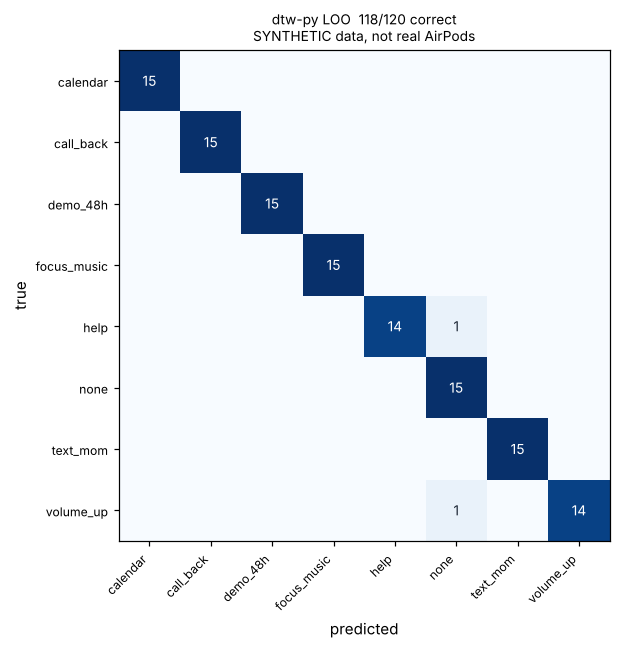
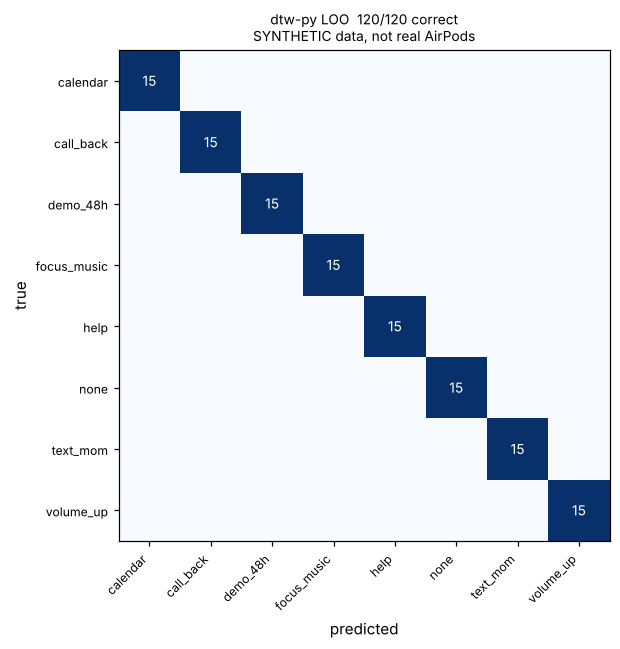
Track G: dtw-py LOO at the JS defaults, synthetic dtw-py rerun, RESULTS.md (real data first; generated with p2-f-dtw-real d27c07f's ml/results/dtw-knn in place)
Claude-Session: https://claude.ai/code/session_01BNSL6qk1bv6gor7EbPhNKm

Changed region(s): [[0.429, 0.0, 0.7355, 0.0616], [0.5823, 0.4314, 0.7048, 0.5547], [0.8581, 0.7396, 0.9806, 0.832]]

diff --git a/ml/silent/report.py b/ml/silent/report.py
@@ -381,7 +381,7 @@ def _luck_table(rows: Sequence[dict[str, Any]], out_path: Path) -> list[str]:
         )
         img = m["_path"].parent / "luck_loso.png"
         if img.exists():
-            imgs += [f"![{m['model']} luck test]({os.path.relpath(img, out_path.parent).replace(os.sep, '/')})", ""]
+            imgs += [f"![{_model(m)} luck test]({os.path.relpath(img, out_path.parent).replace(os.sep, '/')})", ""]
     return lines + [""] + imgs
 
 
@@ -427,7 +427,7 @@ def _real_section(group: Sequence[dict[str, Any]], out_path: Path, ids: Sequence
     lucky = [m for m in by["loso"] if "permutation" in m["params"]]
     if lucky:
         lines += ["#### Luck test", "", *_luck_table(lucky, out_path)]
-        skipped = [m["model"] for m in by["loso"] if "permutation" not in m["params"] and m["model"] != "dtw-knn"]  # dtw-knn = dtw-py
+        skipped = [_model(m) for m in by["loso"] if "permutation" not in m["params"] and m["model"] != "dtw-knn"]  # dtw-knn = dtw-py
         if skipped:
             lines += [f"Not run for {', '.join(skipped)} (each shuffle means retraining every fold; the cheap exact shortcut exists only for",
                       "dtw-py and minirocket).", ""]

diff --git a/ml/tests/test_dtw.py b/ml/tests/test_dtw.py
@@ -146,11 +146,9 @@ def test_matches_js_dtw_knn_clip_by_clip(synthetic):
     import json
     from pathlib import Path
 
-    from silent.bench import run_fold
+    from silent.bench import default_opts, run_fold
     from silent.cv import splits
     from silent.preprocess import preprocess_clip
-
-    from silent.bench import default_opts
 
     snap = json.loads((Path(__file__).parent / "data" / "js_dtw_knn_loso.json").read_text())
     assert snap["opts"] == {}  # JS defaults = dtw-py defaults
@@ -174,11 +172,9 @@ def test_matches_js_dtw_knn_on_real_data_with_bud_mirroring(real_smoke):
     import json
     from pathlib import Path
 
-    from silent.bench import run_fold
+    from silent.bench import default_opts, run_fold
     from silent.cv import splits
     from silent.preprocess import preprocess_clip
-
-    from silent.bench import default_opts
 
     js = json.loads((Path(__file__).parent / "data" / "js_dtw_knn_real_smoke_loso.json").read_text())
     assert js["opts"] == {}  # JS defaults = dtw-py defaults (L 96, band 0.05, k 3, clip norm, threshold 0.85, budNorm mirror)

diff --git a/ml/RESULTS.md b/ml/RESULTS.md
@@ -31,22 +31,31 @@ he mouthed "stay still"); the raw files are never edited.
 
 8 classes (`calendar`, `call_back`, `demo_48h`, `focus_music`, `help`, `none`, `text_mom`, `volume_up`), so chance is about 12.5%.
 
-Settings (LOSO runs): **dtw-py**: L 64, 6 channels, high pass 1.0 Hz, global norm, budNorm mirror; band 0.1, k 1; **minirocket**: L 64, 6 channels, high pass 1.0 Hz, global norm, budNorm mirror; 10000 kernels, seed 0; **cnn**: L 64, 6 channels, high pass 1.0 Hz, global norm, budNorm mirror; max 300 epochs, seed 0.
+Settings (LOSO runs): **dtw-knn (JS)**: L 96, 6 channels, high pass 1 Hz, clip norm, budNorm mirror; band 0.05, k 3; **dtw-py**: L 96, 6 channels, high pass 1.0 Hz, clip norm, budNorm mirror; band 0.05, k 3; **dtw-py (phase1-settings)**: L 64, 6 channels, high pass 1.0 Hz, global norm, budNorm mirror; band 0.1, k 1; **minirocket**: L 64, 6 channels, high pass 1.0 Hz, global norm, budNorm mirror; 10000 kernels, seed 0; **minirocket (L96-clip)**: L 96, 6 channels, high pass 1.0 Hz, clip norm, budNorm mirror; 10000 kernels, seed 0; **cnn**: L 64, 6 channels, high pass 1.0 Hz, global norm, budNorm mirror; max 300 epochs, seed 0; **cnn (L96-clip)**: L 96, 6 channels, high pass 1.0 Hz, clip norm, budNorm mirror; max 300 epochs, seed 0.
 
 #### Leave one session out (the headline)
 
 Train on the other sessions, test on a whole new one: the closest thing to real use. Each test column is one fold.
 
-| Model | Accuracy | Macro F1 | test s1 (right bud) | test s2 (left bud) | test s3 (left bud) | Seeds 0 to 4: mean (range) | None false accept | Infer ms/clip |
-|---|---:|---:|---:|---:|---:|---:|---:|---:|
-| dtw-py | 81.9% (280/342) | 0.820 | 64.8% (68/105) | 94.0% (110/117) | 85.0% (102/120) | no randomness | 3.7% (1/27) | 51.4 |
-| minirocket | 76.3% (261/342) | 0.776 | 49.5% (52/105) | 92.3% (108/117) | 84.2% (101/120) | 77.8% (76.3% to 79.8%) | 0.0% (0/27) | 3.9 |
-| cnn | 76.6% (262/342) | 0.780 | 51.4% (54/105) | 91.5% (107/117) | 84.2% (101/120) | 77.3% (74.9% to 81.3%) | 3.7% (1/27) | 2.1 |
+| Model | Accuracy | Macro F1 | test s1 (right bud) | test s2 (left bud) | test s3 (left bud) | Seeds 0 to 4: mean (range) | Settings | None false accept | Infer ms/clip |
+|---|---:|---:|---:|---:|---:|---:|---|---:|---:|
+| dtw-knn (JS) | 94.2% (322/342) | 0.939 | ? | ? | ? | no randomness | picked on these folds (sweep) | 0.0% (0/27) | 12.9 |
+| dtw-py | 94.2% (322/342) | 0.939 | 83.8% (88/105) | 97.4% (114/117) | 100.0% (120/120) | no randomness | picked on these folds (sweep) | 0.0% (0/27) | 93.9 |
+| dtw-py (phase1-settings) | 81.9% (280/342) | 0.820 | 64.8% (68/105) | 94.0% (110/117) | 85.0% (102/120) | no randomness | fixed before this data | 3.7% (1/27) | 52.3 |
+| minirocket | 76.3% (261/342) | 0.776 | 49.5% (52/105) | 92.3% (108/117) | 84.2% (101/120) | 77.8% (76.3% to 79.8%) | fixed before this data | 0.0% (0/27) | 3.9 |
+| minirocket (L96-clip) | 84.8% (290/342) | 0.854 | 64.8% (68/105) | 95.7% (112/117) | 91.7% (110/120) | 85.4% (83.9% to 88.3%) | preprocessing from the DTW sweep | 3.7% (1/27) | 6.0 |
+| cnn | 76.6% (262/342) | 0.780 | 51.4% (54/105) | 91.5% (107/117) | 84.2% (101/120) | 77.3% (74.9% to 81.3%) | fixed before this data | 3.7% (1/27) | 2.1 |
+| cnn (L96-clip) | 79.2% (271/342) | 0.798 | 54.3% (57/105) | 92.3% (108/117) | 88.3% (106/120) | 80.8% (78.9% to 83.6%) | preprocessing from the DTW sweep | 3.7% (1/27) | 2.4 |
+
+**Settings picked on these folds:** the DTW defaults (L 96, band 0.05, k 3, clip norm, threshold 0.85) were chosen
+by a LOSO sweep of 768 configurations on these same 3 sessions (Track F, `web/src/ml/preprocess.ts`), so those
+rows are a little optimistic (the best of many tries). Rows marked *fixed before this data* had no such tuning.
+The honest check is a session that played no part in choosing anything (the s3 hold out replay of the public model).
 
 Accuracy is the first seed (0), fixed before the run. MiniRocket and the CNN are random (kernels, weights), so the
 seed column shows the same LOSO with other seeds: differences of a few points between models are within that spread.
 
-- Highest LOSO on `ss-dataset-s1-20261031-1621.json`, `ss-dataset-s2-20261031-1637.json`, `ss-dataset-s3-20261031-1654.json`: **dtw-py**, 280/342 correct (81.9%).
+- Highest LOSO on `ss-dataset-s1-20261031-1621.json`, `ss-dataset-s2-20261031-1637.json`, `ss-dataset-s3-20261031-1654.json`: **dtw-knn (JS)** and **dtw-py** (tie), 322/342 correct (94.2%).
 
 #### Cross bud
 
@@ -56,9 +65,12 @@ motion mirrored into the left bud frame; the default everywhere, so this is also
 
 | Model | Raw | Mirrored | Gain (points) |
 |---|---:|---:|---:|
-| dtw-py | 31.4% (33/105) | 64.8% (68/105) | +33.3 |
+| dtw-py | 26.7% (28/105) | 83.8% (88/105) | +57.1 |
+| dtw-py (phase1-settings) | 31.4% (33/105) | 64.8% (68/105) | +33.3 |
 | minirocket | 33.3% (35/105) | 49.5% (52/105) | +16.2 |
+| minirocket (L96-clip) | 30.5% (32/105) | 64.8% (68/105) | +34.3 |
 | cnn | 21.0% (22/105) | 51.4% (54/105) | +30.5 |
+| cnn (L96-clip) | 9.5% (10/105) | 54.3% (57/105) | +44.8 |
 
 #### Luck test
 
@@ -68,14 +80,17 @@ p value = (1 + shuffles that reached the real accuracy) / (shuffles + 1). Idea f
 
 | Model | Real LOSO | Shuffled labels: mean (sd) | Best shuffle | Shuffles at or above real | p value |
 |---|---:|---:|---:|---:|---:|
-| dtw-py | 81.9% (280/342) | 12.7% (3.2) | 22.8% | 0 of 500 | 0.002 |
+| dtw-py | 94.2% (322/342) | 12.5% (2.9) | 22.8% | 0 of 500 | 0.002 |
+| dtw-py (phase1-settings) | 81.9% (280/342) | 12.7% (3.2) | 22.8% | 0 of 500 | 0.002 |
 | minirocket | 76.3% (261/342) | 12.7% (2.3) | 19.9% | 0 of 500 | 0.002 |
 
 ![dtw-py luck test](results/dtw-py/luck_loso.png)
 
+![dtw-py (phase1-settings) luck test](results/dtw-py--phase1-settings/luck_loso.png)
+
 ![minirocket luck test](results/minirocket/luck_loso.png)
 
-Not run for cnn (each shuffle means retraining every fold; the cheap exact shortcut exists only for
+Not run for minirocket (L96-clip), cnn, cnn (L96-clip) (each shuffle means retraining every fold; the cheap exact shortcut exists only for
 dtw-py and minirocket).
 
 #### Leave one clip out
@@ -84,16 +99,52 @@ Train on every other clip, including takes from the same sitting, so it is optim
 
 | Model | Accuracy | Macro F1 | None false accept | Infer ms/clip |
 |---|---:|---:|---:|---:|
-| dtw-py | 89.2% (305/342) | 0.894 | 0.0% (0/27) | ~203.2 |
+| dtw-knn (JS) | 96.2% (329/342) | 0.962 | 0.0% (0/27) | 15.6 |
+| dtw-py | 96.2% (329/342) | 0.962 | 0.0% (0/27) | ~300.4 |
 | minirocket | 89.8% (307/342) | 0.901 | 0.0% (0/27) | ~6.8 |
+| cnn | 90.4% (309/342) | 0.907 | 3.7% (1/27) | ~3.7 |
 
 #### JS vs Python DTW cross check
 
-Needs both `dtw-knn` (JS, `scripts/eval-dtw.ts`) and `dtw-py` results on the same data and protocol.
+Same data and the same settings (L, band, k, norm, channels, hpHz, threshold, and budNorm when there are right bud
+clips) are checked first.
+
+| Protocol | Data | Accuracy JS | Accuracy Python | Gap (points) | None FA JS | None FA Python | Within 5? |
+|---|---|---:|---:|---:|---:|---:|---|
+| LOSO | `ss-dataset-s1-20261031-1621.json`, `ss-dataset-s2-20261031-1637.json`, `ss-dataset-s3-20261031-1654.json` | 94.2% (322/342) | 94.2% (322/342) | 0.0 | 0.0% | 0.0% | yes, same confusion matrix |
+| LOO | `ss-dataset-s1-20261031-1621.json`, `ss-dataset-s2-20261031-1637.json`, `ss-dataset-s3-20261031-1654.json` | 96.2% (329/342) | 96.2% (329/342) | 0.0 | 0.0% | 0.0% | yes, same confusion matrix |
 
 #### Confusion matrices
 
 Rows = true label, columns = predicted.
+
+##### dtw-knn (JS)
+
+**LOSO**
+
+| true \ pred | calendar | call_back | demo_48h | focus_music | help | none | text_mom | volume_up |
+|---|---|---|---|---|---|---|---|---|
+| **calendar** | 40 | 1 | . | . | 1 | . | 3 | . |
+| **call_back** | . | 44 | . | . | . | 1 | . | . |
+| **demo_48h** | . | . | 43 | . | . | 1 | . | 1 |
+| **focus_music** | 1 | 2 | . | 40 | 1 | 1 | . | . |
+| **help** | . | 1 | . | 1 | 43 | . | . | . |
+| **none** | 1 | 1 | . | . | . | 25 | . | . |
+| **text_mom** | . | . | . | . | . | 1 | 44 | . |
+| **volume_up** | . | . | . | . | . | 1 | 1 | 43 |
+
+**LOO**
+
+| true \ pred | calendar | call_back | demo_48h | focus_music | help | none | text_mom | volume_up |
+|---|---|---|---|---|---|---|---|---|
+| **calendar** | 44 | . | . | . | . | . | 1 | . |
+| **call_back** | . | 44 | . | . | . | . | 1 | . |
+| **demo_48h** | . | . | 43 | . | . | . | . | 2 |
+| **focus_music** | . | 1 | . | 43 | 1 | . | . | . |
+| **help** | 1 | 2 | . | . | 42 | . | . | . |
+| **none** | . | 1 | 1 | . | . | 25 | . | . |
+| **text_mom** | . | . | . | . | . | . | 45 | . |
+| **volume_up** | 1 | . | . | . | . | . | 1 | 43 |
 
 ##### dtw-py
 
@@ -103,6 +154,12 @@ Rows = true label, columns = predicted.
 
 ![dtw-py xbud](results/dtw-py/confusion_xbud.png)
 
+##### dtw-py (phase1-settings)
+
+![dtw-py (phase1-settings) loso](results/dtw-py--phase1-settings/confusion_loso.png)
+
+![dtw-py (phase1-settings) xbud](results/dtw-py--phase1-settings/confusion_xbud.png)
+
 ##### minirocket
 
 ![minirocket loso](results/minirocket/confusion_loso.png)
@@ -111,11 +168,25 @@ Rows = true label, columns = predicted.
 
 ![minirocket xbud](results/minirocket/confusion_xbud.png)
 
+##### minirocket (L96-clip)
+
+![minirocket (L96-clip) loso](results/minirocket--L96-clip/confusion_loso.png)
+
+![minirocket (L96-clip) xbud](results/minirocket--L96-clip/confusion_xbud.png)
+
 ##### cnn
 
 ![cnn loso](results/cnn/confusion_loso.png)
 
+![cnn loo](results/cnn/confusion_loo.png)
+
 ![cnn xbud](results/cnn/confusion_xbud.png)
+
+##### cnn (L96-clip)
+
+![cnn (L96-clip) loso](results/cnn--L96-clip/confusion_loso.png)
+
+![cnn (L96-clip) xbud](results/cnn--L96-clip/confusion_xbud.png)
 
 ## Synthetic fixture (not real AirPods data)
 
@@ -124,17 +195,17 @@ Rows = true label, columns = predicted.
 
 | Model | Protocol | Accuracy | Macro F1 | None false accept | Infer ms/clip | Data |
 |---|---|---:|---:|---:|---:|---|
-| dtw-knn | LOSO | 98.3% (118/120) | 0.984 | 0.0% | 1.1 | `dataset.synthetic.json` (*synthetic*) |
-| dtw-knn | LOO | 98.3% (118/120) | 0.984 | 0.0% | 1.6 | `dataset.synthetic.json` (*synthetic*) |
-| dtw-py | LOSO | 98.3% (118/120) | 0.984 | 0.0% | ~18.9 | `dataset.synthetic.json` (*synthetic*) |
-| dtw-py | LOO | 98.3% (118/120) | 0.984 | 0.0% | ~45.3 | `dataset.synthetic.json` (*synthetic*) |
+| dtw-knn | LOSO | 100.0% (120/120) | 1.000 | 0.0% | 2.9 | `dataset.synthetic.json` (*synthetic*) |
+| dtw-knn | LOO | 100.0% (120/120) | 1.000 | 0.0% | 3.6 | `dataset.synthetic.json` (*synthetic*) |
+| dtw-py | LOSO | 100.0% (120/120) | 1.000 | 0.0% | ~48.4 | `dataset.synthetic.json` (*synthetic*) |
+| dtw-py | LOO | 100.0% (120/120) | 1.000 | 0.0% | ~83.7 | `dataset.synthetic.json` (*synthetic*) |
 | minirocket | LOSO | 99.2% (119/120) | 0.992 | 0.0% | ~3.8 | `dataset.synthetic.json` (*synthetic*) |
 | minirocket | LOO | 98.3% (118/120) | 0.983 | 0.0% | ~7.0 | `dataset.synthetic.json` (*synthetic*) |
 | cnn | LOSO | 97.5% (117/120) | 0.975 | 0.0% | 2.1 | `dataset.synthetic.json` (*synthetic*) |
 | cnn | LOO | 98.3% (118/120) | 0.984 | 0.0% | 1.0 | `dataset.synthetic.json` (*synthetic*) |
 
-- Highest LOSO on `dataset.synthetic.json`: **minirocket**, 119/120 correct (99.2%).
-- Highest LOO on `dataset.synthetic.json`: **dtw-knn** and **dtw-py** and **minirocket** and **cnn** (tie), 118/120 correct (98.3%).
+- Highest LOSO on `dataset.synthetic.json`: **dtw-knn (JS)** and **dtw-py** (tie), 120/120 correct (100.0%).
+- Highest LOO on `dataset.synthetic.json`: **dtw-knn (JS)** and **dtw-py** (tie), 120/120 correct (100.0%).
 
 ### JS vs Python DTW cross check (synthetic)
 
@@ -143,14 +214,14 @@ clips) are checked first.
 
 | Protocol | Data | Accuracy JS | Accuracy Python | Gap (points) | None FA JS | None FA Python | Within 5? |
 |---|---|---:|---:|---:|---:|---:|---|
-| LOSO | `dataset.synthetic.json` | 98.3% (118/120) | 98.3% (118/120) | 0.0 | 0.0% | 0.0% | yes, same confusion matrix |
-| LOO | `dataset.synthetic.json` | 98.3% (118/120) | 98.3% (118/120) | 0.0 | 0.0% | 0.0% | yes, same confusion matrix |
+| LOSO | `dataset.synthetic.json` | 100.0% (120/120) | 100.0% (120/120) | 0.0 | 0.0% | 0.0% | yes, same confusion matrix |
+| LOO | `dataset.synthetic.json` | 100.0% (120/120) | 100.0% (120/120) | 0.0 | 0.0% | 0.0% | yes, same confusion matrix |
 
 ### Confusion matrices (synthetic)
 
 Rows = true label, columns = predicted.
 
-#### dtw-knn
+#### dtw-knn (JS)
 
 **LOSO**
 
@@ -160,10 +231,10 @@ Rows = true label, columns = predicted.
 | **call_back** | . | 15 | . | . | . | . | . | . |
 | **demo_48h** | . | . | 15 | . | . | . | . | . |
 | **focus_music** | . | . | . | 15 | . | . | . | . |
-| **help** | . | . | . | . | 14 | 1 | . | . |
+| **help** | . | . | . | . | 15 | . | . | . |
 | **none** | . | . | . | . | . | 15 | . | . |
 | **text_mom** | . | . | . | . | . | . | 15 | . |
-| **volume_up** | . | . | . | . | . | 1 | . | 14 |
+| **volume_up** | . | . | . | . | . | . | . | 15 |
 
 **LOO**
 
@@ -173,10 +244,10 @@ Rows = true label, columns = predicted.
 | **call_back** | . | 15 | . | . | . | . | . | . |
 | **demo_48h** | . | . | 15 | . | . | . | . | . |
 | **focus_music** | . | . | . | 15 | . | . | . | . |
-| **help** | . | . | . | . | 14 | 1 | . | . |
+| **help** | . | . | . | . | 15 | . | . | . |
 | **none** | . | . | . | . | . | 15 | . | . |
 | **text_mom** | . | . | . | . | . | . | 15 | . |
-| **volume_up** | . | . | . | . | . | 1 | . | 14 |
+| **volume_up** | . | . | . | . | . | . | . | 15 |
 
 #### dtw-py
 
